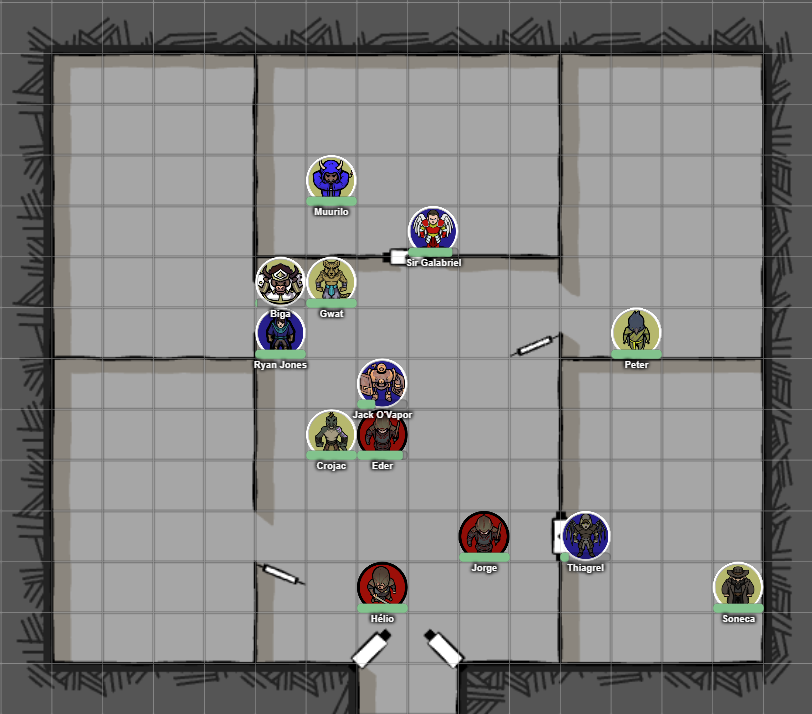
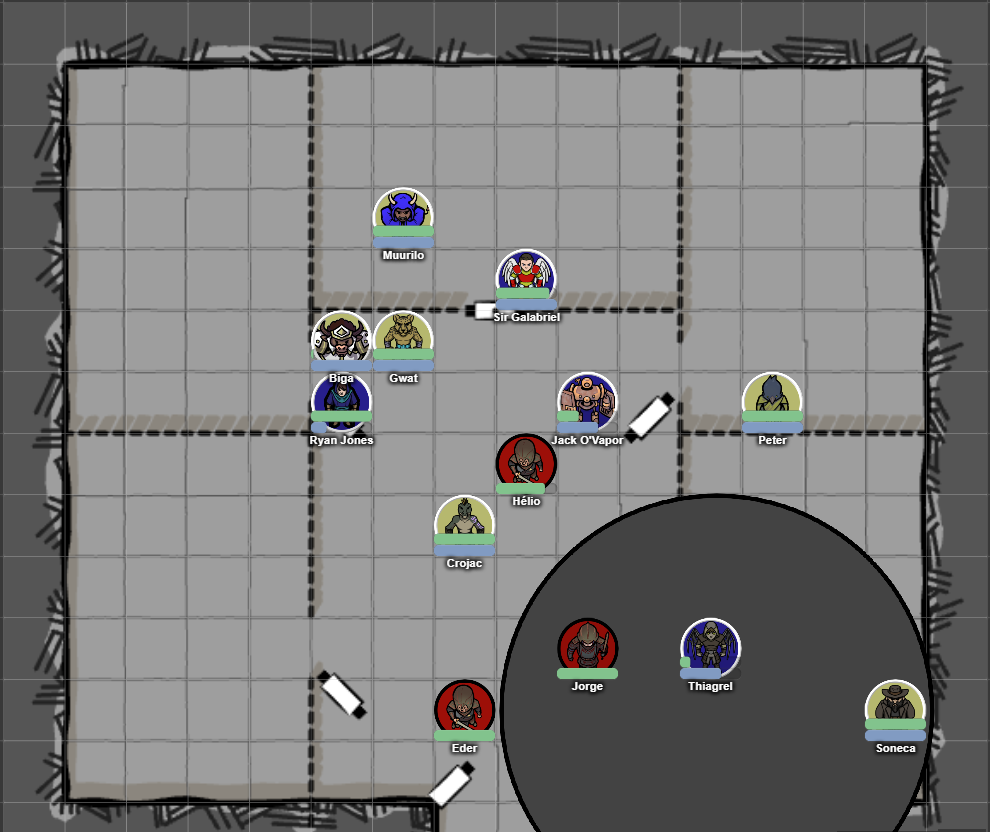
Published multiple files

diff --git a/src/site/notes/Aventuras/00 Aleatoriamente Presos por Puristas/Aleatoriamente Presos por Puristas.md b/src/site/notes/Aventuras/00 Aleatoriamente Presos por Puristas/Aleatoriamente Presos por Puristas.md
@@ -1,5 +1,5 @@
 ---
-{"dg-publish":true,"permalink":"/Aventuras/00 Aleatoriamente Presos por Puristas/Aleatoriamente Presos por Puristas/","pinned":true,"created":"2026-03-13T20:43:14.633-03:00","updated":"2026-03-19T21:13:27.834-03:00"}
+{"dg-publish":true,"permalink":"/Aventuras/00 Aleatoriamente Presos por Puristas/Aleatoriamente Presos por Puristas/","pinned":true,"created":"2026-03-13T20:43:14.633-03:00","updated":"2026-03-19T22:11:18.112-03:00"}
 ---
 
 **Nome da Aventura:** [[Aventuras/00 Aleatoriamente Presos por Puristas/Aleatoriamente Presos por Puristas\|Aleatoriamente Presos por Puristas]];
@@ -23,7 +23,7 @@ Caso deseje ver como ocorre a construção aleatória de personagem, veja [[Sist
 
 ---
 ## Sessão 1 (13/03/2026) - Malditas Grades!
-Em um canto escuro de uma sala, vemos uma criatura sombria, deitada, caída no chão. Ele abre os olhos, acordando, começa a se erguer, e nota que suas mãos estão algemadas, assim como os seus pés. <br>
+Em um canto escuro de uma sala, vemos uma criatura sombria, deitada, caída no chão. Ele abre os olhos, acordando, começa a se erguer, e nota que suas mãos estão algemadas, assim como os seus pés. 
 É Thiagrel, um suraggel sulfure de cabelos castanhos, chifres encaracolados saindo da lateral do rosto. Ele se põe de pé silenciosamente, e começa a observar o ambiente a seu redor, alerta, como um bom caçador, seu olhar é ameaçador, como se procurando uma nova presa.
 Olhando ao seu redor, ele percebe estar numa cela, preso, mas não se recorda de como fora capturado. Apenas se recorda de estar cansado, e deitar à cama em seu lar. Na cela com ele se encontra um anão, deitado no chão, duro como pedra, parecendo até mesmo estar morto.
 
@@ -67,21 +67,66 @@ Os detentos começam então a conversar:
 \- Ah, não, era o Beco Sujo, em Campo Belo também - outra mentira, nem Campo Belo ele conhece.
 \- Nunca ouvi falar... onde fica?
 \- É só você seguir a sujeira, *hahaha*!
+\- Eu vim do Feudo dos Silva - complementa Biga.
 
+Cada um em sua cela fala de onde veio, e são lugares suficientemente distantes para tudo não ter acontecido em um só dia.
 \- Falando nisso, eu não me lembro de como fui preso - diz Gwat.
 \- Eu também não - respondem a maioria dos detentos.
 
 \- Oh, do Beco Sujo - Crojac chama Thiagrel - e esse aí do seu lado?
+O meio-anjo olha em volta, chega até o anão, cutuca algumas vezes, mexe nele, mas nada acontece. "Tá duro como pedra", responde, depois dá um chute, virando o anão para que fique de barriga para cima, e este começa a roncar suficietemente alto.
 
-O meio-anjo olha em volta, chega até o anão, cutuca algumas vezes, mexe nele, mas nada acontece. "Tá duro como pedra", responde, depois dá um chute, virando o anão para que fique de barriga para cima
+ \- A gente consegue sair dessa? - Pergunta Muurilo, o minotauro caladão, para seu companheiro de cela.
+ \- Eu de fato não sei, caro amigo, mas combaterei contra todo tipo de injustiça, inclusive esta.
 
-bar do valkarya, em Campo Belo
+\- Senhor guarda, eu ordeno que imediatamente retire as nossas algemas e nos liberte destas grades!
+\- Que me importa?
+\- Por que é que estamos presos então?
+\- Porque merecem! - O guarda não sabe exatamente o motivo da prisão destes.
+\- Eu ordeno! Eu sou Sir Galabriel de...
+\- Basta! Cala-te e fica parado e quieto na sua cela.
+Fica nítido um desrespeito mútuo a todos.
 
-beco sujo
+ \- Eu tenho um plano - diz Ryan.
+\- Ei, amigão - o kliren tenta chamar a atenção do guarda.
+\- O que é?
+\- Por que é que a gente está aqui?
+\- Porque são fracos.
+\- Okay, mas tem um cara aqui bastante ferido.
+\- Não ligo.
+\- Acho que ele vai morrer se não for tratado.
+\- Que porcaria, quem é?
+\- Sou eu... - Biga entra na dança e pede auxílio com suas feridas.
 
-Feudo dos Silva
+O guarda então caminha até a cela, para investigar os ferimentos, e se realmente é necessário algum tipo de cuidado.
+Enquanto passava ao lado da cela de Ryan, este, tendo notado uma chave em seu pescoço, tenta roubá-la... entretanto, suas mãos estão presos, e seus movimentos limitados - ele falha, mas consegue esconder a intenção do guarda, que segue até o minotauro, e, quando vai verificar as suas feridas, nota uma pedra passando voando por si.
+\- Chega! Vou chamar o chefe para botá-los para dormir.
 
-Pedra lançada 
+O guarda então sai, para depois de um tempo retornar com outro guarda de mesma patente, e um soldado, claramente o líder de ambos.
+Neste meio tempo, Ryan, Jack e Sir Galabriel tentaram forçar o próprio corpo contra as grades da cela, a fim de quebrar a porta, ou buscaram abrir a fechadura, mesmo não tendo o equipamento necessário às mãos.
+Ainda descobrem pontos fracos da grade, mas nenhuma porta ou algema fora aberta, o que piora ao se notar que alguns se feriram no processo de se jogar contra a grade.
+
+Quando chega o soldado à sala, finalmente notam que se tratam de puristas.
+\- Que porcaria é esta? Calem-se e durmam!
+\- Por que é que estamos presos? - Indaga novamente Sir Galabriel.
+\- Porque são inferiores a nós.
+\- Você é um bobalhão - Thiagrel profere palavras duras contra o soldado.
+\- O que você disse? - O Soldado Jorge saca sua besta e a aponta na direção do meio anjo.
+\- BO - BA - LHÃO.
+Jorge dispara. Mas o tiro fora tão mal feito que o virote ficou preso na grade. Ele tenta disfarçar dizendo "Isso foi um aviso."
+
+\- Ei, você, venha cá se for homem! - Jack, que é um golem, não um homem, provoca o outro recruta.
+\- O que você quer, hein, latão? - Ele se aproxima, encorajado pela presença do soldado.
+Quando chega suficientemente próximo, a criatura de vapor solta um vapor escaldante em sua direção, que o fere e o deixa queimando, o que o recruta rapidamente apaga com as mãos.
+
+Este foi o estopim para o caos começar.
+Thiagrel, tendo o soldado Jorge próximo de si, soltou um círculo de escuridão, deixando o soldado desnorteado.
+Em seguida, Jack aproveita a porta da prisão enfraquecida com seu vapor para quebrá-la, e, vendo o recruta Hélio ainda perto, consegue roubar-lhe a chave e lançá-la para seu amigo Ryan.
+Este, com velocidade espetacular, liberta a si e corre libertar as salas seguintes - como suas pernas ainda estão presas, ele é forçado a ir até a mais próxima - libertando Gwat, o jaguatirica, e Biga, o minotauro ferido. Crojac, nesse meio tempo, partiu para cima, a fim de fazer número no combate.
+
+Com o começo do caos finalizamos a primeira parte desta aventura. De todos os não humanos, apenas Jack tem suas mãos livres, e todos ainda se movem com dificuldade por terem as pernas presas. Muurilo, Galabriel, Thiagrel e Soneca estão presos em suas celas.
+Thiagrel, Biga, Jack e Galabriel estao feridos das tentativas de quebra das grades, e alguns já usaram mana para executar suas habilidades. Jorge e Thiagrel se encontram sob um manto de sombras.
+Dos presos não-heróis, Crojac, o trog, e Gwat, o jaguatirica, partem para o combate. Muurilo parece amedrontado, Peter, o tengu, não conseguiu cair em si, está sonolento. Soneca segue roncando.
 
 ![z-Imagem-APpP-Fim-Sessão-01.png](/img/user/Aventuras/00%20Aleatoriamente%20Presos%20por%20Puristas/z-Imagem-APpP-Fim-Sess%C3%A3o-01.png)
 *Situação Final da Prisão Purista.*

diff --git a/src/site/notes/Aventuras/00 Guerra Artoniana/Guerra Artoniana.md b/src/site/notes/Aventuras/00 Guerra Artoniana/Guerra Artoniana.md
@@ -1,5 +1,5 @@
 ---
-{"dg-publish":true,"permalink":"/Aventuras/00 Guerra Artoniana/Guerra Artoniana/","pinned":true,"created":"2025-10-13T17:42:13.089-03:00","updated":"2026-03-19T19:06:05.682-03:00"}
+{"dg-publish":true,"permalink":"/Aventuras/00 Guerra Artoniana/Guerra Artoniana/","pinned":true,"created":"2025-10-13T17:42:13.089-03:00","updated":"2026-03-19T19:06:05.698-03:00"}
 ---
 
 **Mestre:** [[Jogadores/Raul Teixeira\|Raul Teixeira]];

diff --git a/src/site/notes/Aventuras/00 Pay Day/Deux-Chevaux.md b/src/site/notes/Aventuras/00 Pay Day/Deux-Chevaux.md
@@ -1,5 +1,5 @@
 ---
-{"dg-publish":true,"permalink":"/Aventuras/00 Pay Day/Deux-Chevaux/","created":"2026-03-07T17:54:12.532-03:00","updated":"2026-03-19T19:06:13.364-03:00"}
+{"dg-publish":true,"permalink":"/Aventuras/00 Pay Day/Deux-Chevaux/","created":"2026-03-07T17:54:12.532-03:00","updated":"2026-03-19T19:06:13.380-03:00"}
 ---
 
 *Personagem de [[Jogadores/Thiago Carro\|Thiago Carro]] em [[Aventuras/00 Pay Day/Pay Day\|Pay Day]], no sistema [[Sistemas/Cyberpunk RED\|Cyberpunk RED]].*

diff --git a/src/site/notes/Aventuras/95 Planeswalker/Planeswalker.md b/src/site/notes/Aventuras/95 Planeswalker/Planeswalker.md
@@ -1,5 +1,5 @@
 ---
-{"dg-publish":true,"permalink":"/Aventuras/95 Planeswalker/Planeswalker/","pinned":true,"created":"2025-10-14T10:58:28.008-03:00","updated":"2026-03-19T19:06:11.731-03:00"}
+{"dg-publish":true,"permalink":"/Aventuras/95 Planeswalker/Planeswalker/","pinned":true,"created":"2025-10-14T10:58:28.008-03:00","updated":"2026-03-19T19:06:11.742-03:00"}
 ---
 
 **Mestre:** [[Jogadores/Plínio\|Plínio]];

diff --git a/src/site/notes/Aventuras/97 Tales of Andalurien/Belega.md b/src/site/notes/Aventuras/97 Tales of Andalurien/Belega.md
@@ -1,5 +1,5 @@
 ---
-{"dg-publish":true,"permalink":"/Aventuras/97 Tales of Andalurien/Belega/","created":"2025-10-14T11:30:52.658-03:00","updated":"2026-03-19T19:06:12.402-03:00"}
+{"dg-publish":true,"permalink":"/Aventuras/97 Tales of Andalurien/Belega/","created":"2025-10-14T11:30:52.658-03:00","updated":"2026-03-19T19:06:12.439-03:00"}
 ---
 
 *Personagem de [[Jogadores/Franciane\|Franciane]] em [[Aventuras/97 Tales of Andalurien/Tales of Andalurien\|Tales of Andalurien]], no sistema [[Sistemas/D&D 5e\|D&D 5e]].*